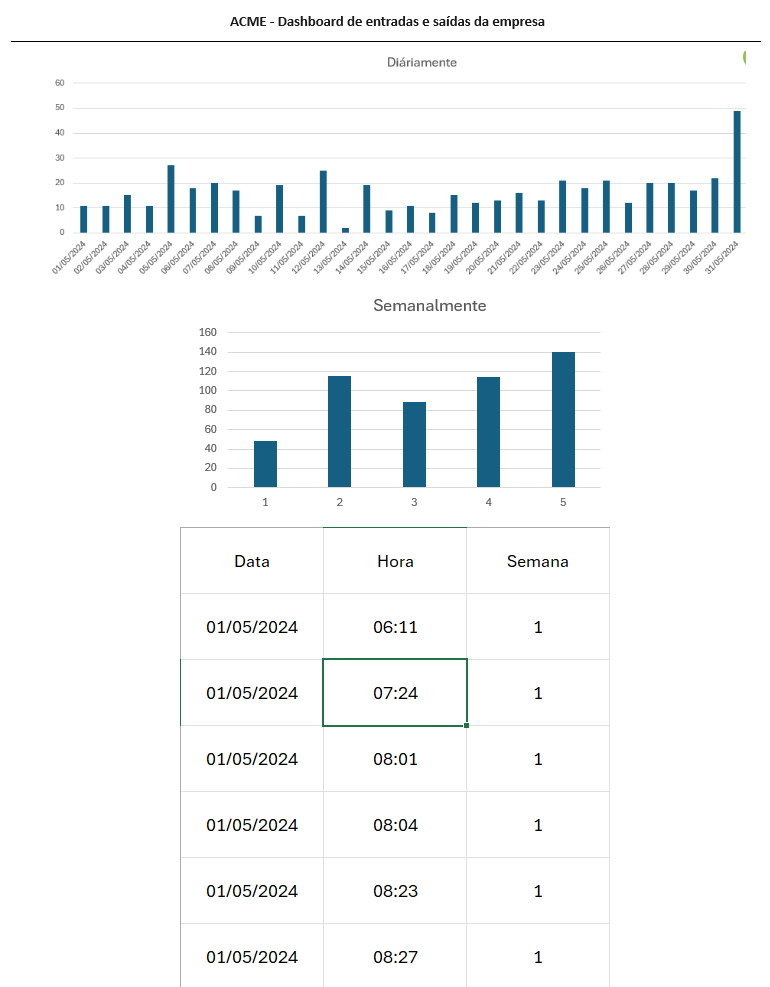
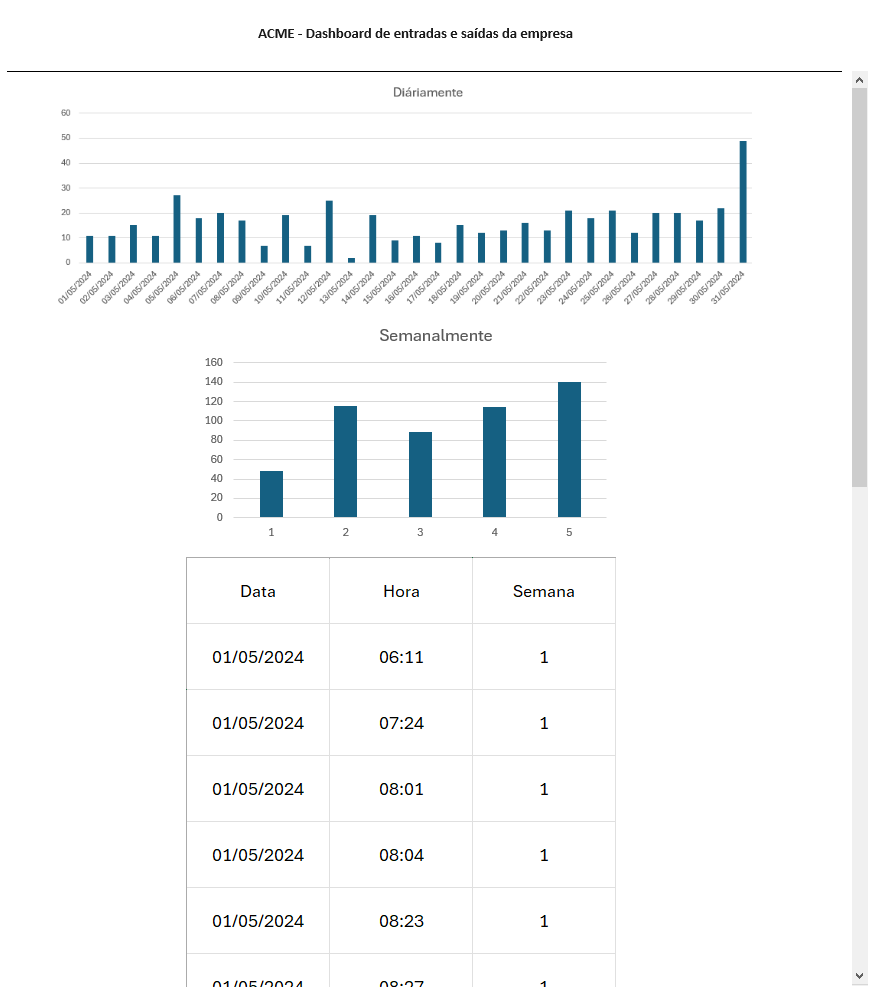
aito

diff --git a/2em/1DES/04-aito/aula13/README.md b/2em/1DES/04-aito/aula13/README.md
@@ -14,8 +14,8 @@ Verificação Prática Somativa 02
 |Obs: O código de que controla o acionamento do portão está no arquivo **arduino.c**|
 |2 - Acrescente nesta simulação dois leds um vermelho e um verde que deverão ficar piscando alternadamente para sinalizar a saida de garagem da empresa: ![leds](./leds.png)|
 |3 - O arquivo **dados.csv** possui uma tabela com dados que representam o histórico de quantas vezes o portão foi aberto durante o mês de maio de 2024, abra este arquivo no Excel e crie dois gráficos, um que mostre a atividade do portão diáriamente e um semanalmente. Os gráficos devem ficar semelhantes aos seguintes, porém com valores diferentes, pois são apenas exemplos|
-|4 - Tire **print** dos gráficos e crie uma página web conforme o wireframe a seguir|
-|<center>![Wireframe](./wireframe.png)</center>|
+|4 - Tire **print** dos gráficos e crie uma página web conforme o wireframe a seguir, a tabela deve ser em HTML utilizando pelo menos os dados da primeira semana.|
+|![Wireframe](./wireframe.png)|
 
 |Entregas|
 |-|
